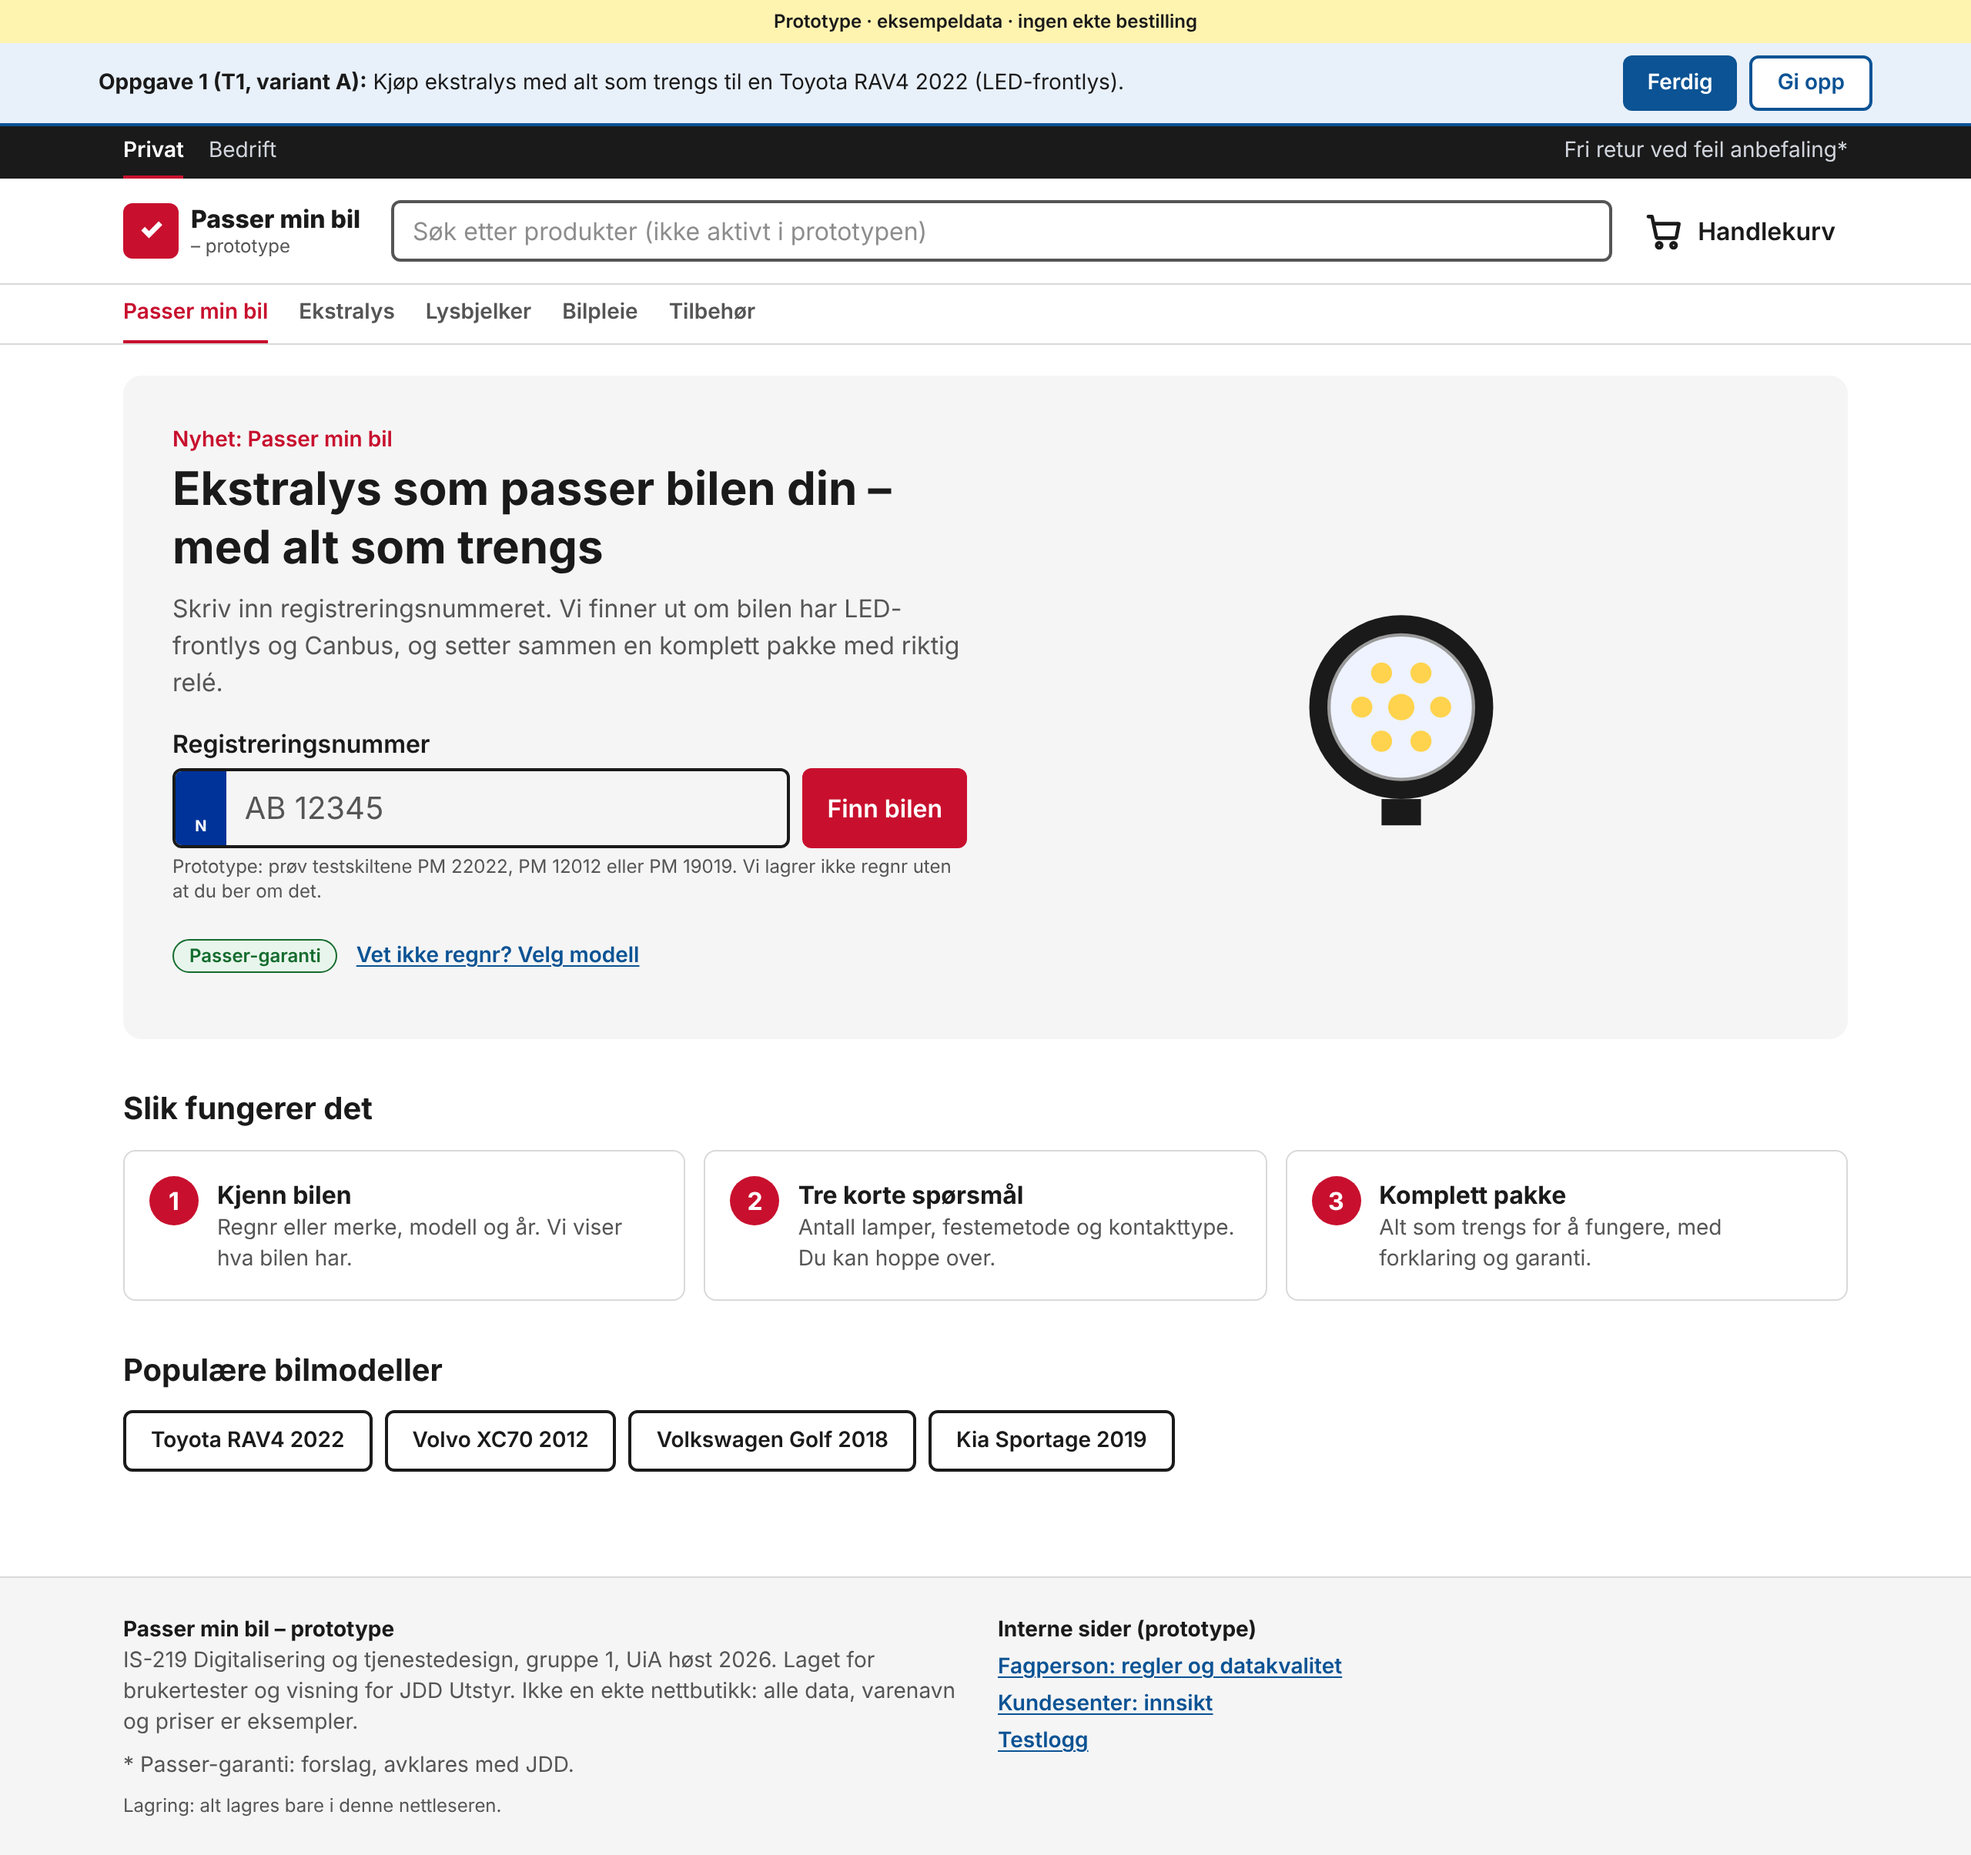
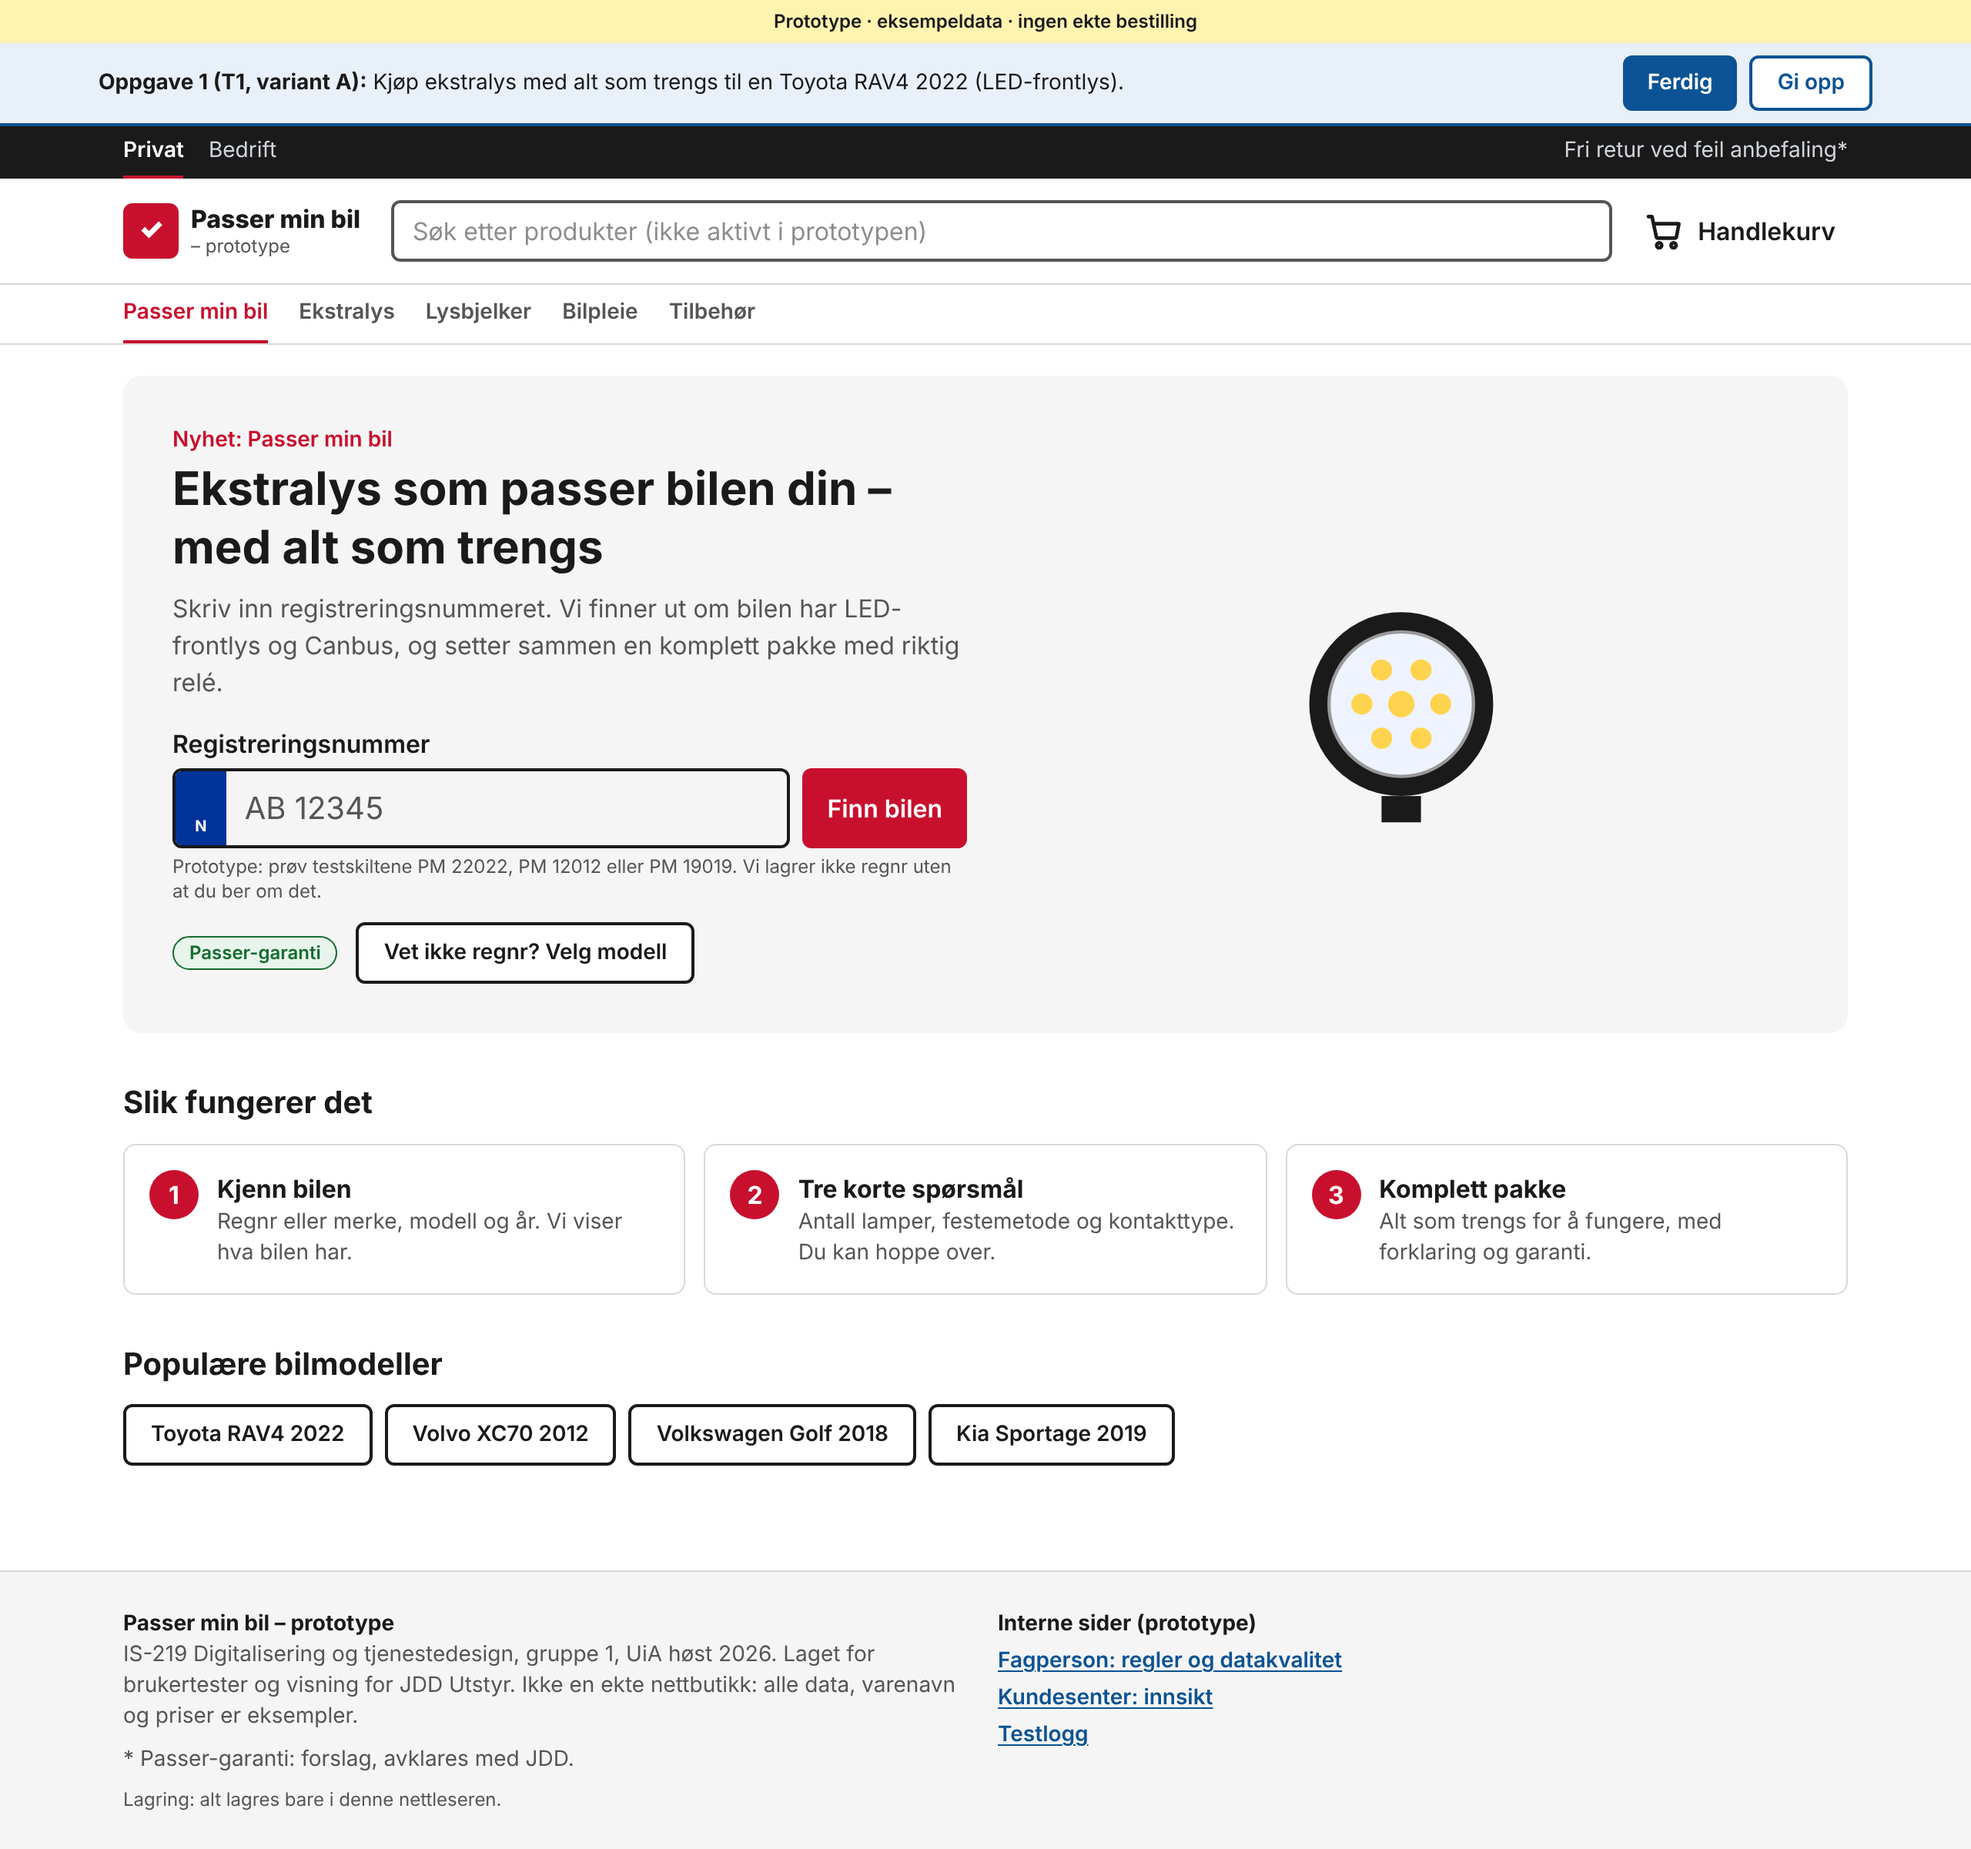
Forside: «Vet ikke regnr? Velg modell» som knapp
Claude-Session: https://claude.ai/code/session_01SEAcVPCapCevC3aLYmGj2Y

diff --git a/src/pages/Forside.tsx b/src/pages/Forside.tsx
@@ -21,7 +21,7 @@ export function Forside() {
           </div>
           <div className="mt-3 flex flex-wrap items-center gap-3 text-sm">
             <Garantimerke />
-            <Link to="/passer?modell=1" className="knapp-lenke">Vet ikke regnr? Velg modell</Link>
+            <Link to="/passer?modell=1" className="knapp-sekundar min-h-10 py-2 text-sm">Vet ikke regnr? Velg modell</Link>
           </div>
         </div>
         <Lampe className="mx-auto hidden w-64 md:block" />
